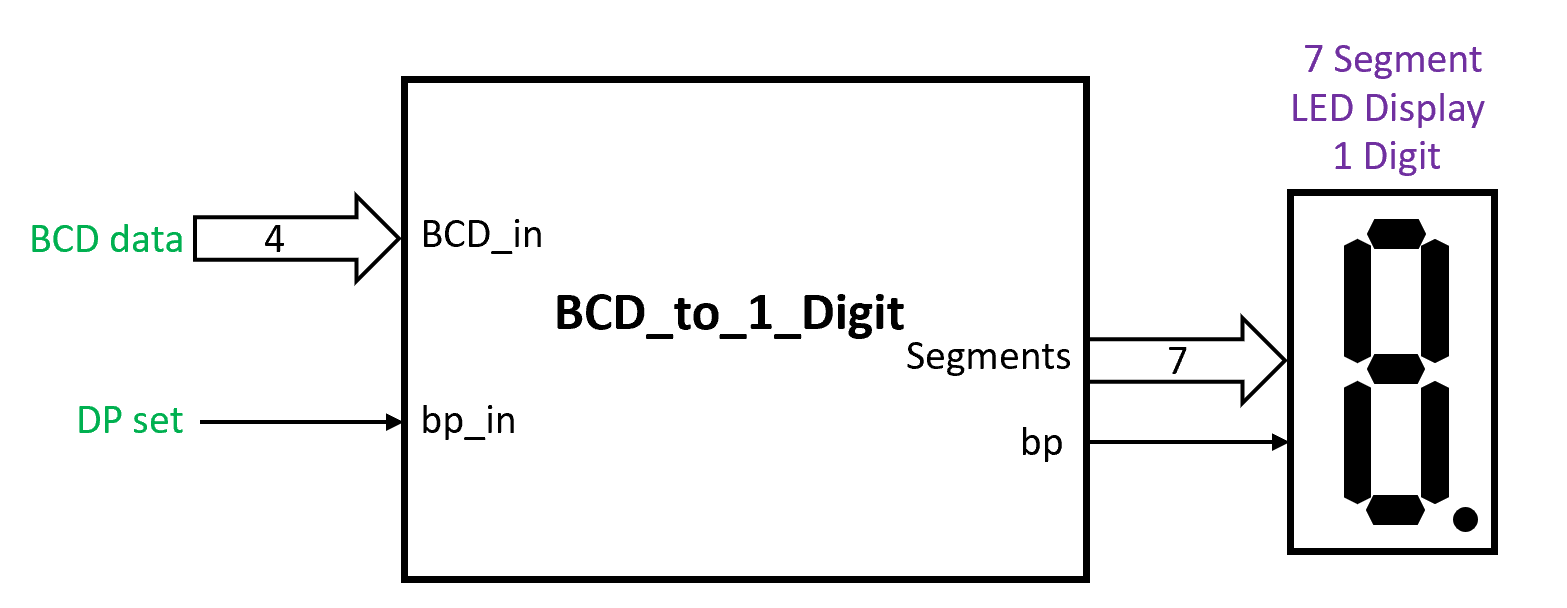
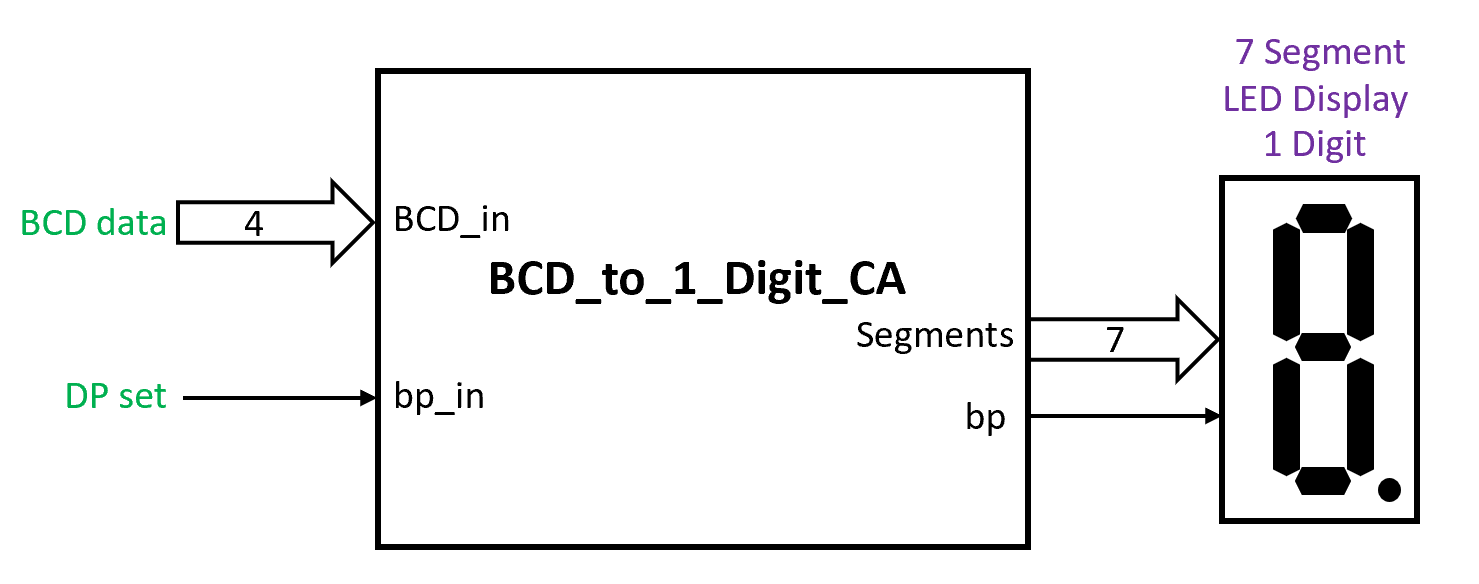
modified:   Pictures/Figure2.png

Changed region(s): [[0.0, 0.0616, 0.9642, 0.9863]]

diff --git a/1_ Digit_Display/README_1.md b/1_ Digit_Display/README_1.md
@@ -41,12 +41,12 @@ So to transmit the information we will need 4 bits for the first two cases and 7
 
 We still need one more bit to encode the decimal point if we want to use it.
 
-## Display BCD encoded binary number on a 7 Segment Common Carod type LED display
+## Display BCD encoded binary number on a 7 Segment Common Anode LED display
 BCD stands for Binary-Coded Decimal and is used In computing and electronic systems is a class of Binary Encodings of decimal numbers where each digit is represented by a fixed number of bits, usually four.
 
 BCD encoding is not unique, there are many variations. I will use simple BCD encoding, also called 8421 encoding.
 
-Connecting the 7 Segment Common Cathode LED display to the FPGA chip is done as in figures 1A, 1C and 1D. For other boards, the connected pin number is indicated.
+Connecting the 7 Segment Common Anode LED display to the FPGA chip is done as in figures 1B, 1C and 1D. For other development boards, the number for each connected pin is changed accordingly.
 
 Seg0 to Seg6 represent the Segment command, which corresponds to segments a to g of the 7-segment display. BP is the Decimal Point command. SEL5 is the Select Digit 5 command, and SEL7 is the Select Digit 7 command.
 
@@ -112,3 +112,9 @@ https://github.com/LincaMarius/FPGA_7_Segment_Display_Driver/blob/main/1_%20Digi
 The source code for the Test Bench of the application "Application 1" written in the Verilog language is here:
 
 https://github.com/LincaMarius/FPGA_7_Segment_Display_Driver/blob/main/1_%20Digit_Display/Aplication_1_tb.v
+
+## Display BCD encoded binary number on a 7 Segment Common Cathode LED display
+Connecting the Common Cathode 7 Segment LED display to the FPGA chip is done as in Figure 1A. For other development boards, the number for each connected pin is changed accordingly.
+
+Seg0 to Seg6 represent the Segment command, which corresponds to segments a to g of the 7-segment display. BP is the Decimal Point command.
+
